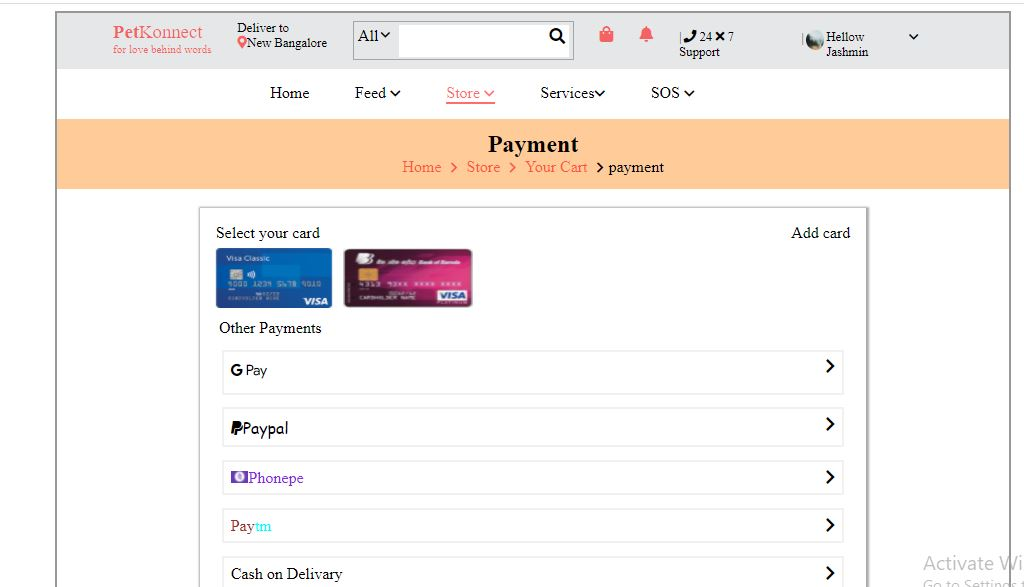
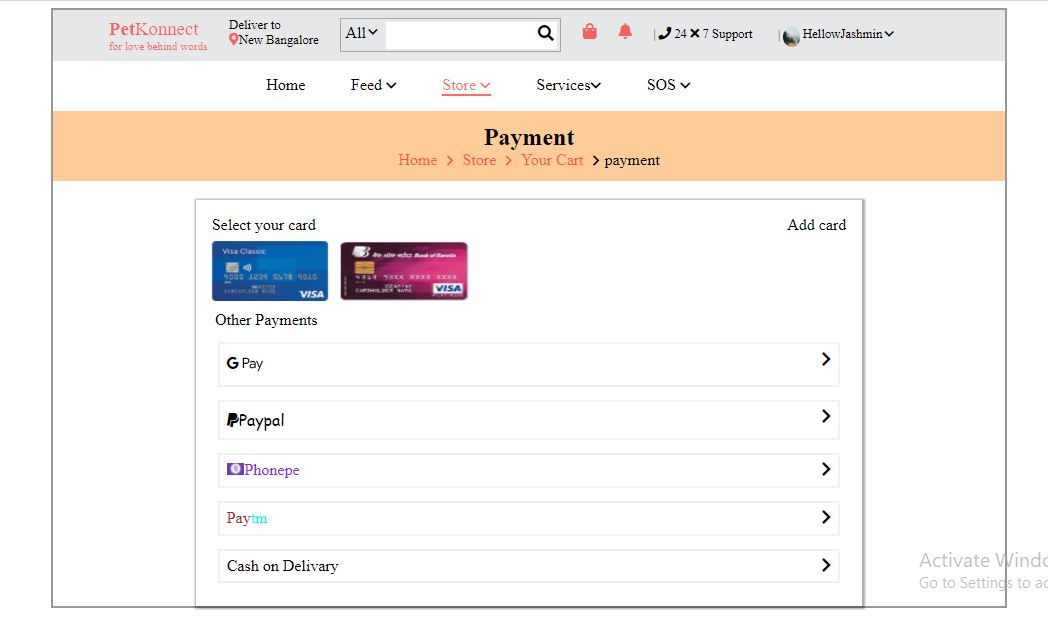
2

Changed region(s): [[0.0, 0.0, 1.0, 1.0], [0.2188, 0.8893, 0.3438, 0.9199], [0.2188, 0.7973, 0.3125, 0.8586]]

diff --git a/page2/file.html b/page2/file.html
@@ -29,11 +29,11 @@
         <div class='carticons'><i class="fas fa-shopping-bag"></i></div>
         <div class='carticons'><i class="fas fa-bell"></i></div>
         
-        <div class='callsection'><span class='end'>|</span><i class="fas fa-phone"></i> 24 <i class="fas fa-times"></i> 7 Support</div>
+        <div class='callsection'><span class='end'>|</span><i class="fas fa-phone"></i> 24 <i class="fas fa-times"></i> 7 <span>Support</span></div>
         
         <div class="callsection profile"><span class='end'>|</span>
             <img src="https://encrypted-tbn0.gstatic.com/images?q=tbn:ANd9GcTP-4-wXbguM8OFreAUM55U3Rksh83JiR-opg&usqp=CAU"/>
-            Hellow Jashmin<i class="fas fa-chevron-down"></i></div>
+            Hellow  <span>Jashmin</span><i class="fas fa-chevron-down"></i></div>
     </header>
     <section class='dropdownsection'>
         <div>Home</div>

diff --git a/page2/style.css b/page2/style.css
@@ -16,7 +16,7 @@
 }
 .header div{
     margin: 1%;
-    margin-right: 2%;
+    margin-right: 1.5%;
 }
 
 .subline{
@@ -72,6 +72,7 @@ input{
 .callsection{
     font-size: 80%;
     padding-top: 1%;
+    min-width:12%;
 }
 .end{
     padding-top: 1.3%;
@@ -165,7 +166,7 @@ input{
     width: 3%;
 }
 
-@media only screen and (max-width: 600px) {
+@media only screen and (max-width: 900px) {
 
     .header{
         display: flex;
